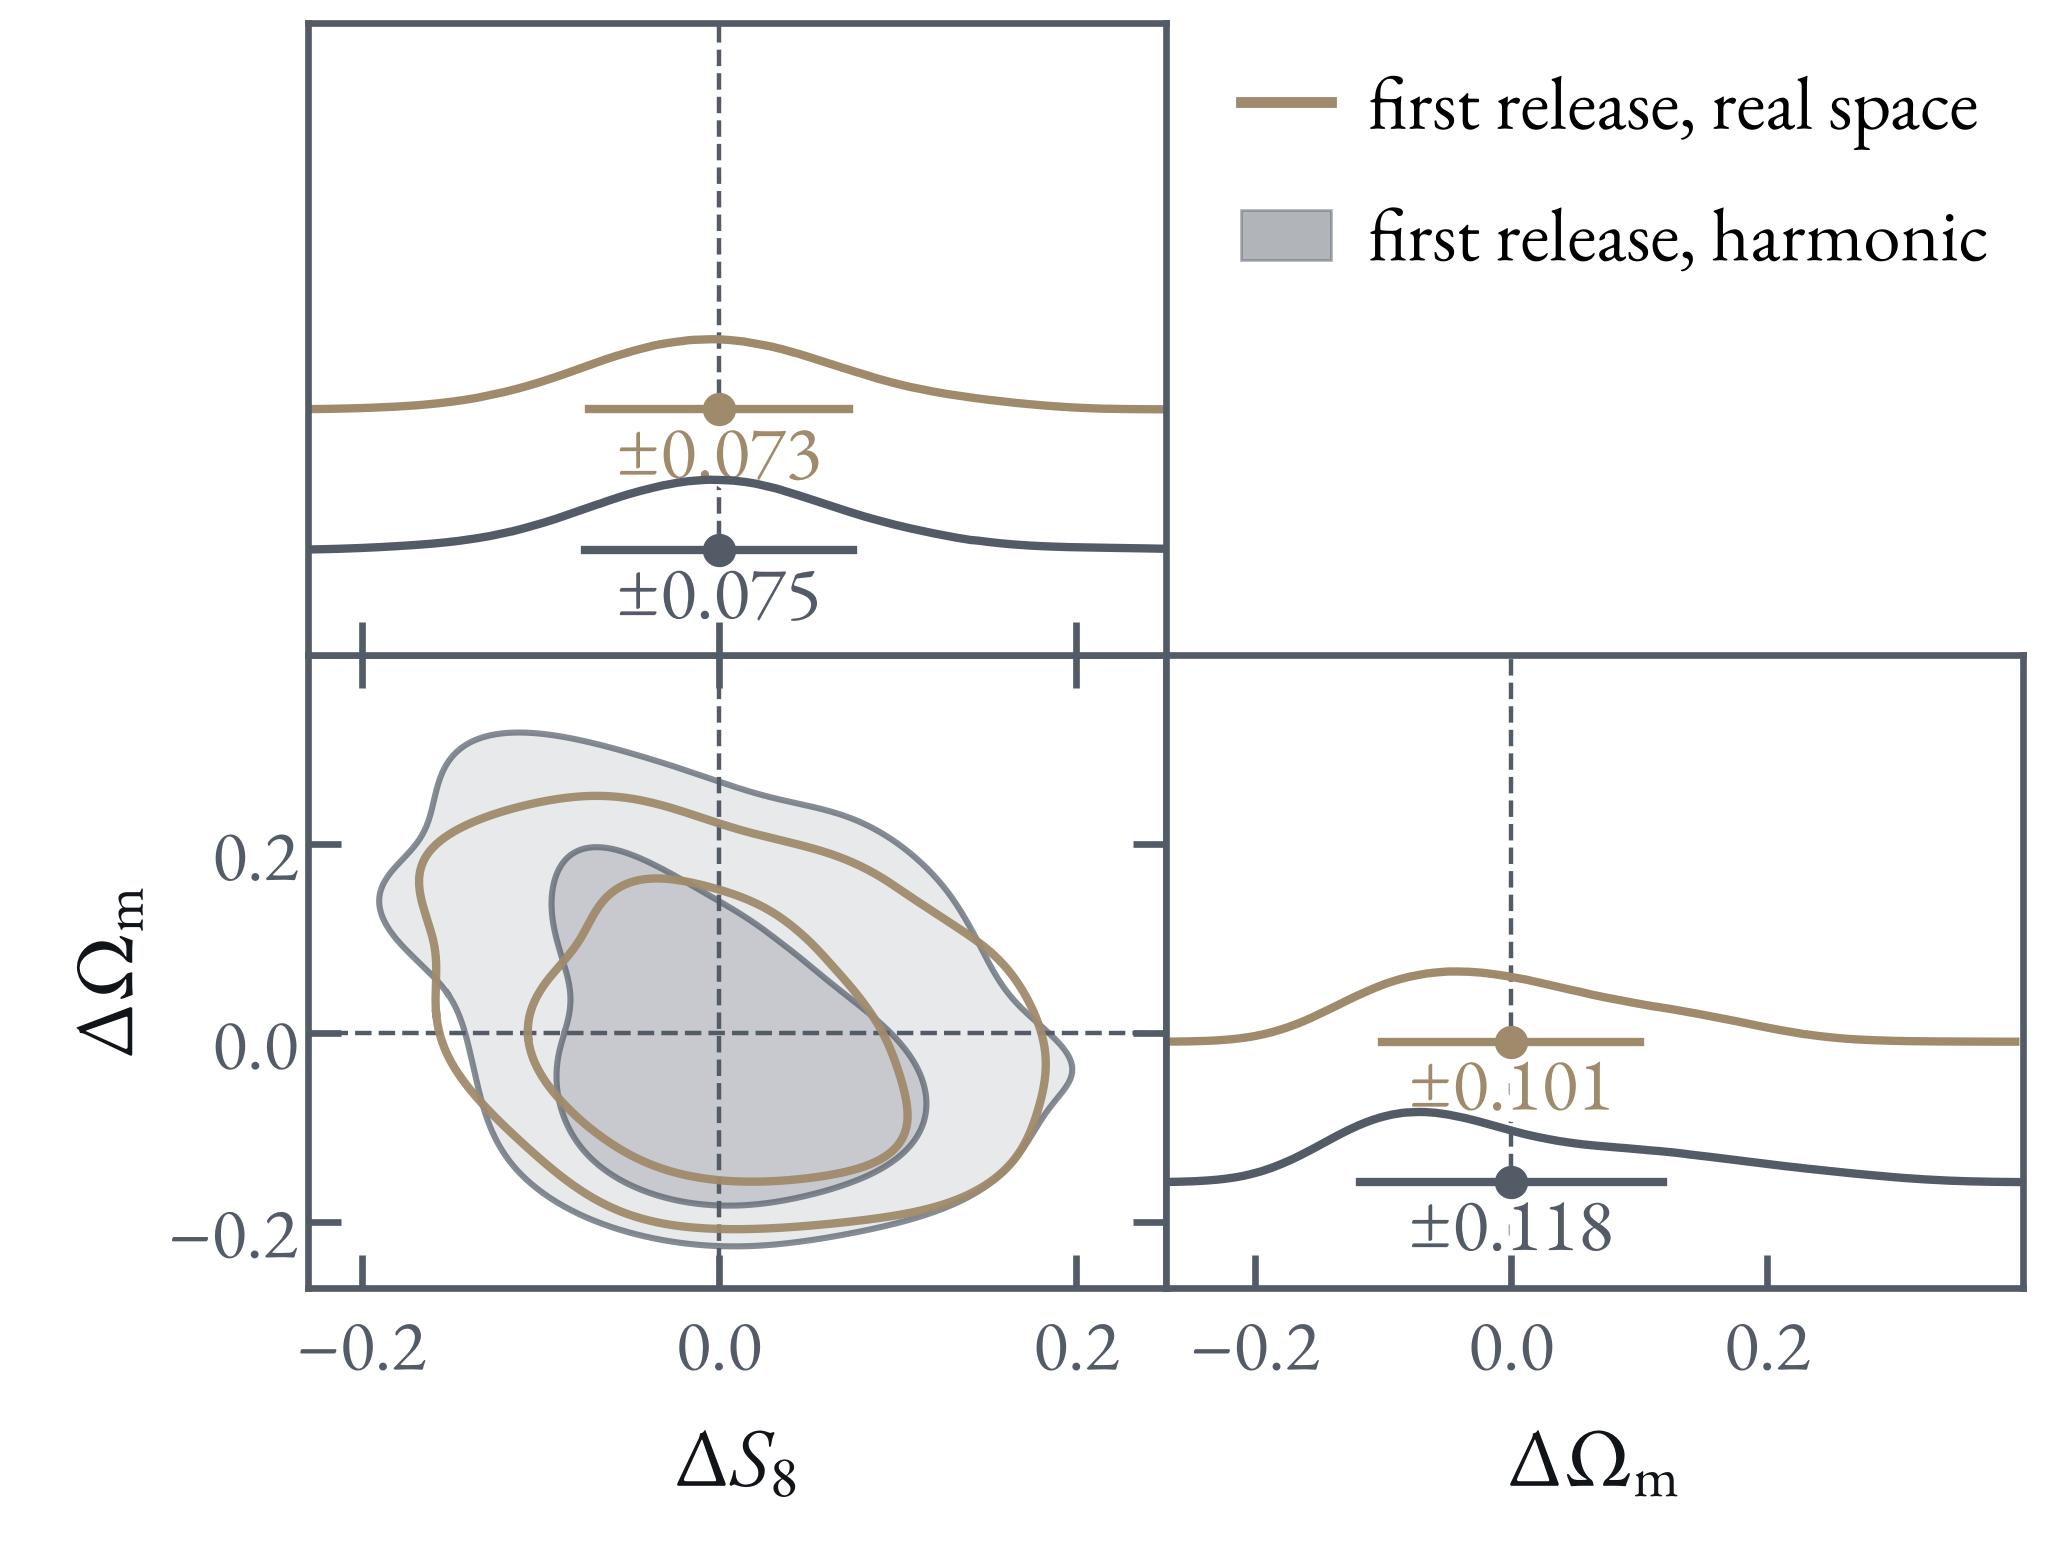
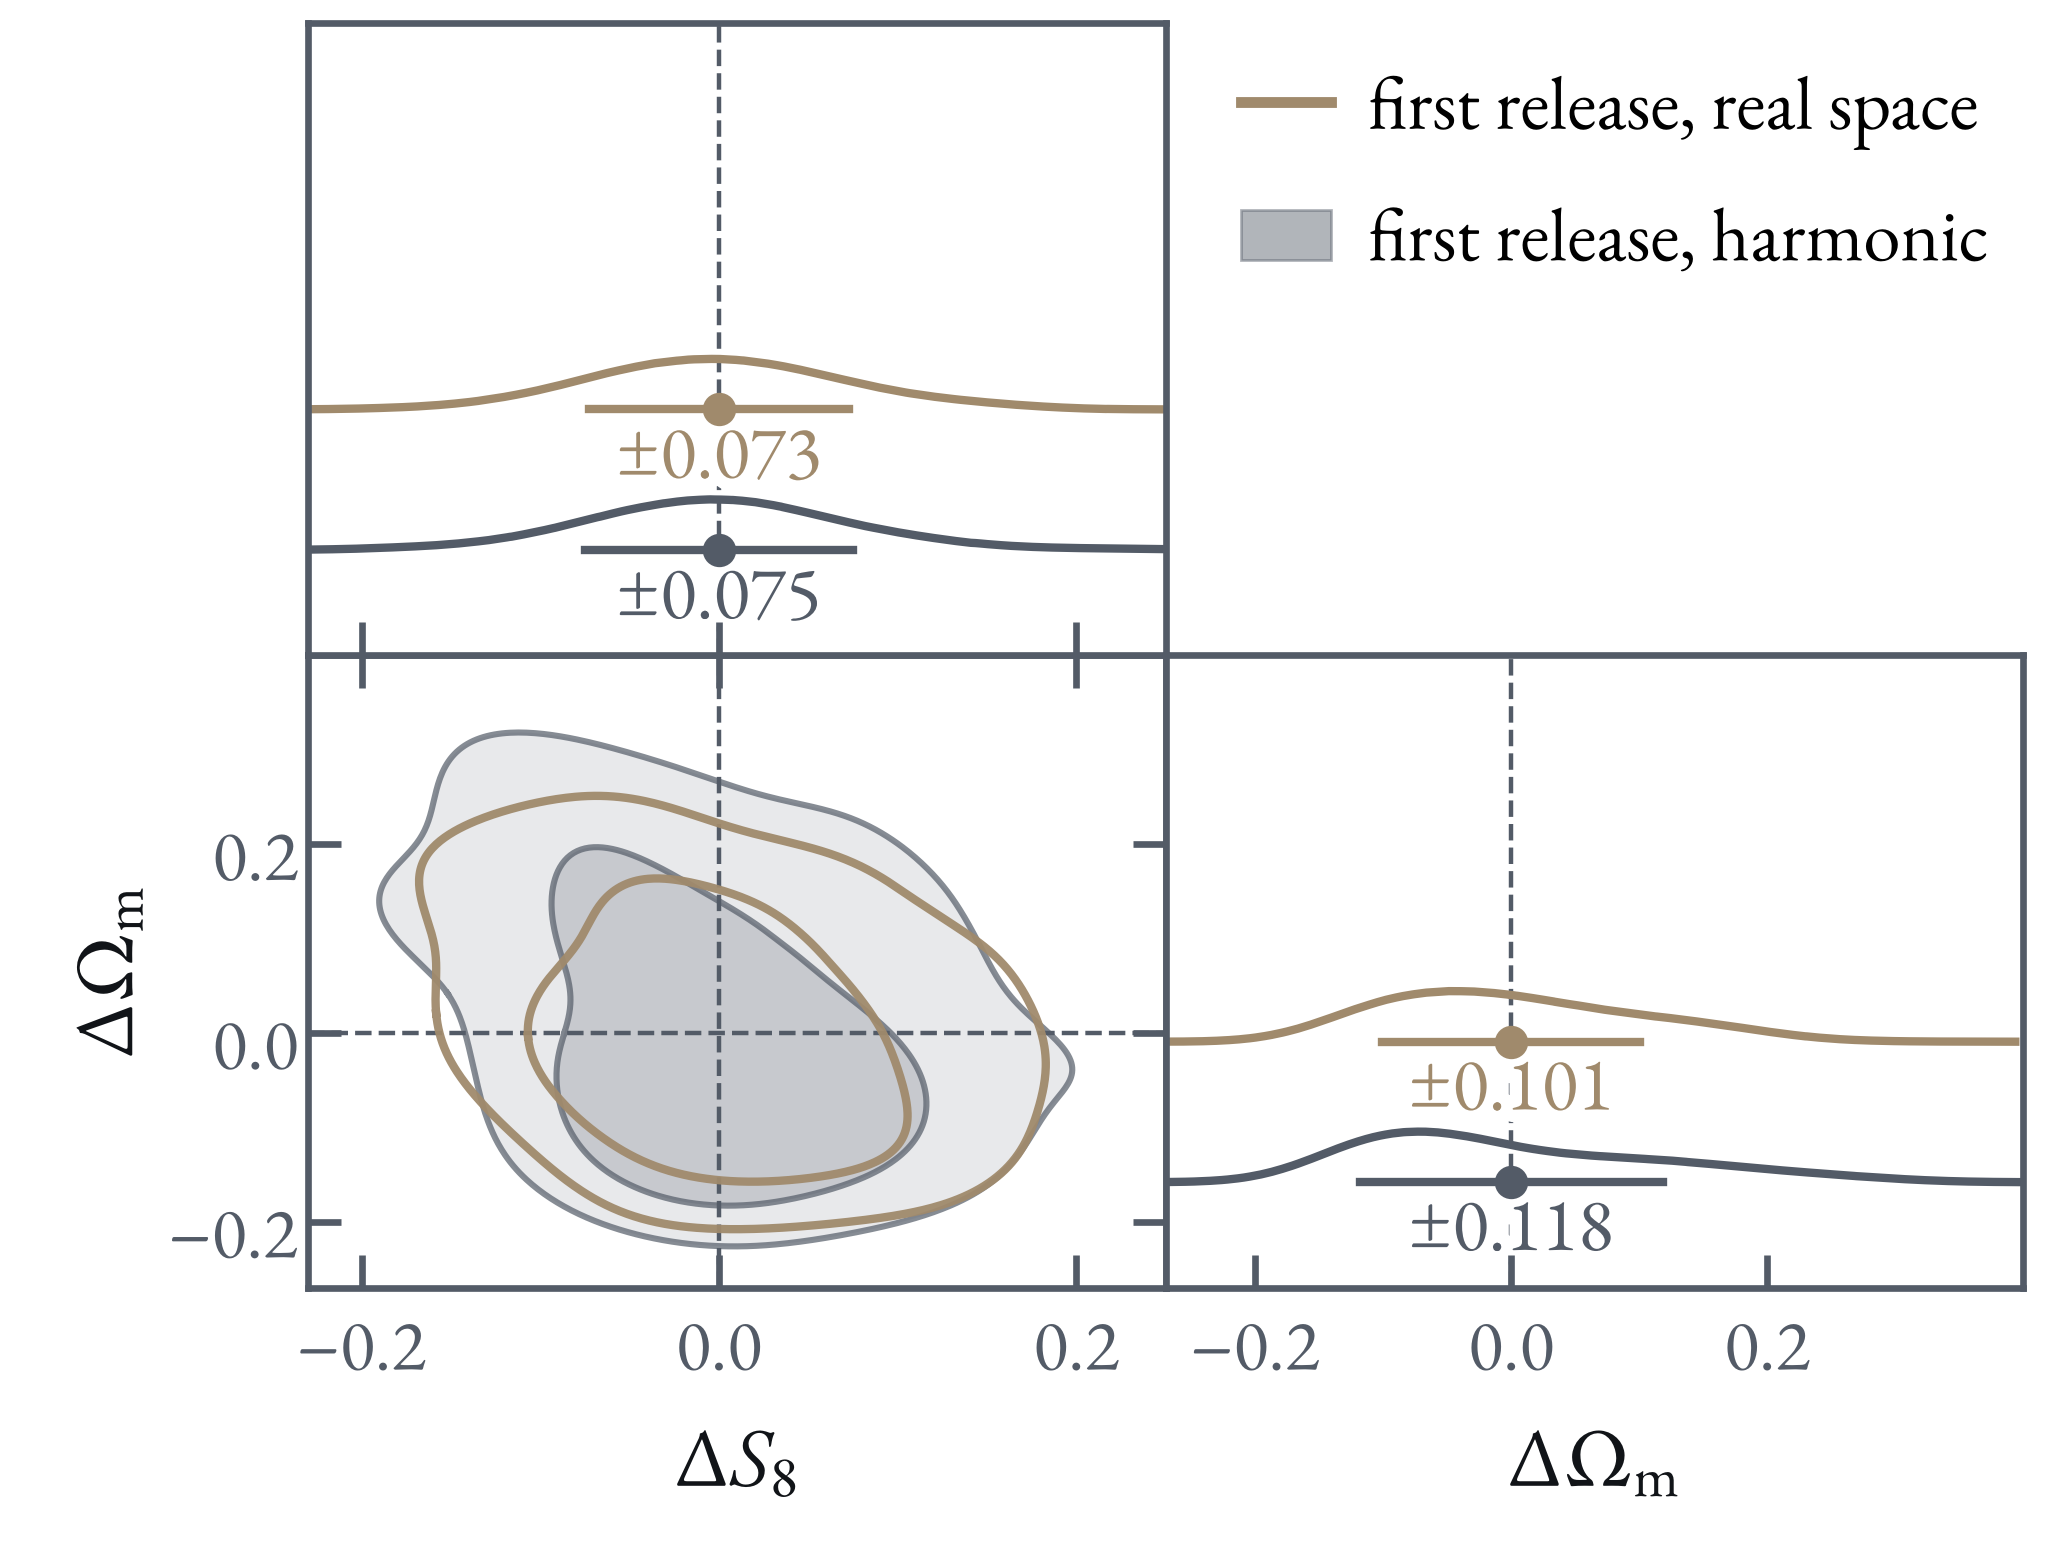
ICE unions-forecast: lower marginal curves so the rows have air
Claude-Session: https://claude.ai/code/session_01JK7o9F2hHekDDNjGjDNYkv

diff --git a/2611_ICE_Barcelona/make_unions_forecast.py b/2611_ICE_Barcelona/make_unions_forecast.py
@@ -29,6 +29,7 @@ TRUTH = dict(Omega_m=0.3190, S8=0.8387)
 RELEASES = [('harmonic', 'first release, harmonic', style.MUTED, True),
             ('real', 'first release, real space', '#A08A6C', False)]
 LAYERS = [('v092f_first_LL_hi_s1', 'v2 cosmic shear', SHEAR), ('v092f_first_3x2_hi_s1', 'v2 3×2pt', JOINT)]
+PEAK = .36     # height of a marginal density in units of the row spacing, which leaves air above each curve
 SMOOTH = 5.   # degrees: width of the smoothing of a digitized contour around its centre
 
 
@@ -70,7 +71,9 @@ def add_releases(fig, n_chains):
             if not n_chains and data:
                 a.remove()
             elif isinstance(a, style.plt.Line2D) and data:
-                a.set_ydata(np.asarray(a.get_ydata(), float) + len(RELEASES))
+                y = np.asarray(a.get_ydata(), float)
+                base = np.floor(y.min() + 1e-9)
+                a.set_ydata(base + (y - base) * PEAK / .5 + len(RELEASES))
             elif isinstance(a, style.plt.Text):
                 a.set_y(a.get_position()[1] + len(RELEASES))
             elif data:
@@ -88,7 +91,7 @@ def add_releases(fig, n_chains):
         for ax, n in ((top, 'S8'), (right, 'Omega_m')):
             m, s = mom[n]
             x, p = np.array(r[n]['x']) - m, np.array(r[n]['p'])
-            ax.plot(x, row + .5 * p / p.max(), color=color, lw=3., zorder=2)
+            ax.plot(x, row + PEAK * p / p.max(), color=color, lw=3., zorder=2)
             ax.plot([-s, s], [row, row], color=color, lw=3., zorder=2)
             ax.plot([0], [row], 'o', color=color, ms=11, zorder=2.1)
             ax.text(0, row + pad, rf'$\pm {s:.3f}$', color=color, fontsize=size, ha='center', va='baseline', zorder=1.5,
